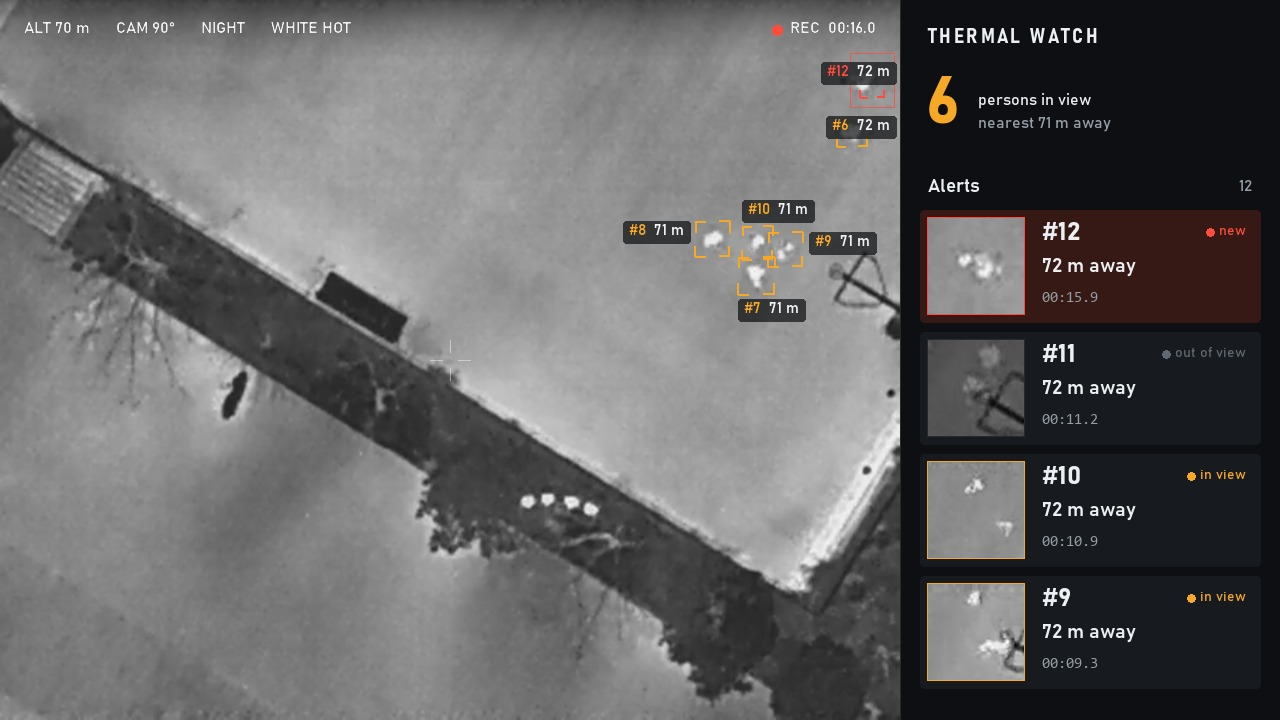
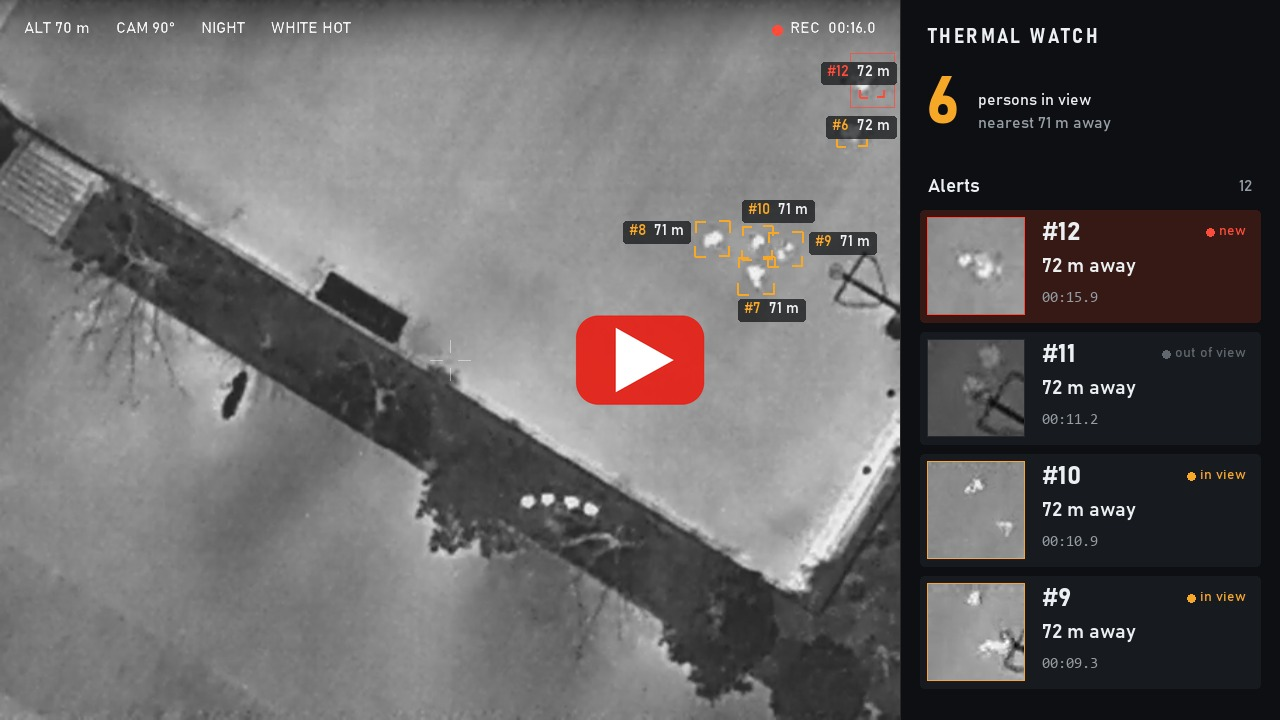
README: link to the Thermal Watch demo video under its thumbnail, play button on the thumbnail

Changed region(s): [[0.4375, 0.4278, 0.5625, 0.5806]]

diff --git a/README_ko.md b/README_ko.md
@@ -87,7 +87,9 @@ TensorRT 10.3, FP16, 배치 1, 15 W 모드에서 검출기 엔진만 잰 GPU 연
 
 [![Thermal Watch 데모 영상](apps/thermal_watch/media/thermal_watch_demo.jpg)](https://youtu.be/e3jIqR9ppsA)
 
-*데모 영상(43초, YouTube): HIT-UAV 야간 비행 두 개(고도 70 m, 130 m)에서 돌린 실시간 화면과 검토 화면이다. 데모 영상의 두 녹화 영상 모두 학습에 쓰지 않았고, 영상에 나오는 두 장면은 예시를 보여 주기 위해 직접 골랐다. 영상: HIT-UAV (Suo et al., Scientific Data 2023), CC BY 4.0.*
+**[YouTube에서 데모 영상 보기 (43초)](https://youtu.be/e3jIqR9ppsA)**
+
+*HIT-UAV 야간 비행 두 개(고도 70 m, 130 m)에서 돌린 실시간 화면과 검토 화면이다. 데모 영상의 두 녹화 영상 모두 학습에 쓰지 않았고, 영상에 나오는 두 장면은 예시를 보여 주기 위해 직접 골랐다. 영상: HIT-UAV (Suo et al., Scientific Data 2023), CC BY 4.0.*
 
 [`apps/thermal_watch`](apps/thermal_watch/README.md)는 드론 열화상(LWIR, 640 x 512) 영상에 S3x를 돌려 사람을 찾는다. 드론 움직임을 보정한 좌표에서 사람을 추적하고, 새 사람을 확인하면 확대 조각과 추정 거리를 붙여 경보를 내며(6초 넘게 놓쳤던 사람은 경보가 한 번 더 난다), 모든 경보를 검토 화면의 재생 바에 남긴다. HIT-UAV에는 추적 ID가 없어 추적 성능은 평가할 수 없으므로, 검출 성능만 학습에 쓰지 않은 녹화 영상으로 평가했다(사람 AP50, 416 x 320 입력).
 

diff --git a/README.md b/README.md
@@ -193,8 +193,10 @@ ground-truth box is drawn on the DSEC clips. The Thermal Watch scenes were picke
 
 [![Thermal Watch demo video](apps/thermal_watch/media/thermal_watch_demo.jpg)](https://youtu.be/e3jIqR9ppsA)
 
-*Demo video (43 s, YouTube): the live screen on two HIT-UAV night flights (70 m and 130 m altitude), then the review
-screen. Neither recording was used for training. Footage: HIT-UAV (Suo et al., Scientific Data 2023), CC BY 4.0.*
+**[Watch the demo video on YouTube (43 s)](https://youtu.be/e3jIqR9ppsA)**
+
+*The live screen on two HIT-UAV night flights (70 m and 130 m altitude), then the review screen. Neither recording was
+used for training. Footage: HIT-UAV (Suo et al., Scientific Data 2023), CC BY 4.0.*
 
 [`apps/thermal_watch`](apps/thermal_watch/README.md) runs S3x on thermal (LWIR, 640 x 512) drone video. It tracks
 people after subtracting the drone's own motion, raises an alert with a snapshot and an estimated distance when it

diff --git a/apps/thermal_watch/README.md b/apps/thermal_watch/README.md
@@ -2,8 +2,10 @@
 
 [![Thermal Watch demo video](media/thermal_watch_demo.jpg)](https://youtu.be/e3jIqR9ppsA)
 
-*Demo video (43 s, YouTube): the live screen on two HIT-UAV night flights (70 m and 130 m altitude), then the review
-screen. Neither recording was used for training. The two scenes were picked by hand; the 120 m sample video, where
+**[Watch the demo video on YouTube (43 s)](https://youtu.be/e3jIqR9ppsA)**
+
+*The live screen on two HIT-UAV night flights (70 m and 130 m altitude), then the review screen. Neither recording was
+used for training. The two scenes were picked by hand; the 120 m sample video, where
 the model failed, is left out (see [Limits](#limits)). Footage: HIT-UAV (Suo et al., Scientific Data 2023), CC BY 4.0.*
 
 Thermal Watch runs S3x (YOLOv8n with a horizontally finer P3 grid, see the [main README](../../README.md)) on a drone's
